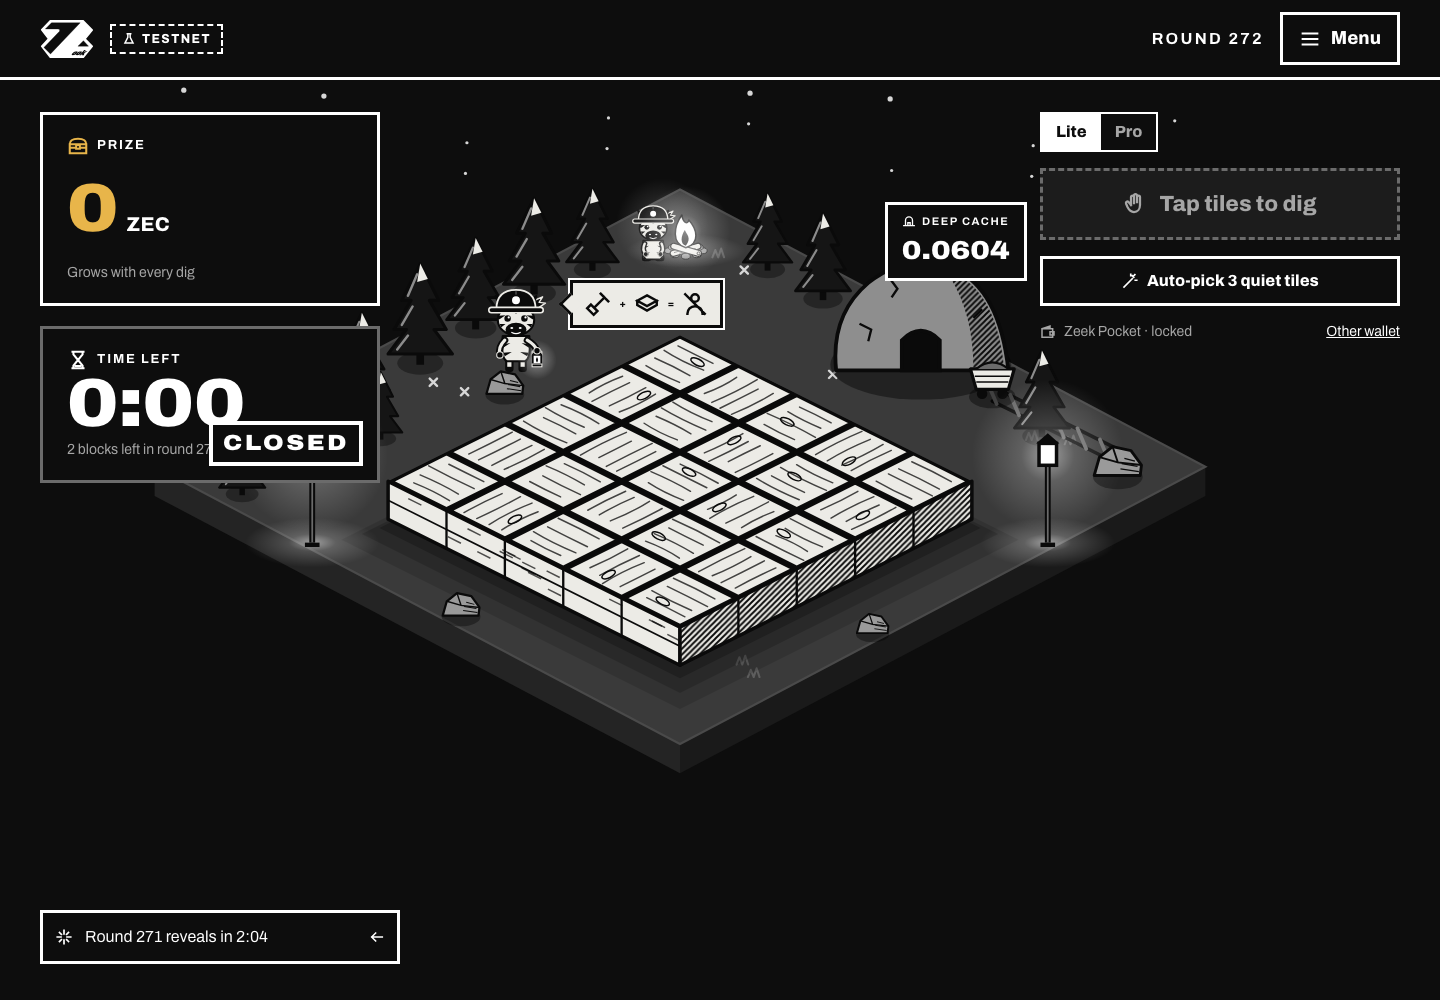
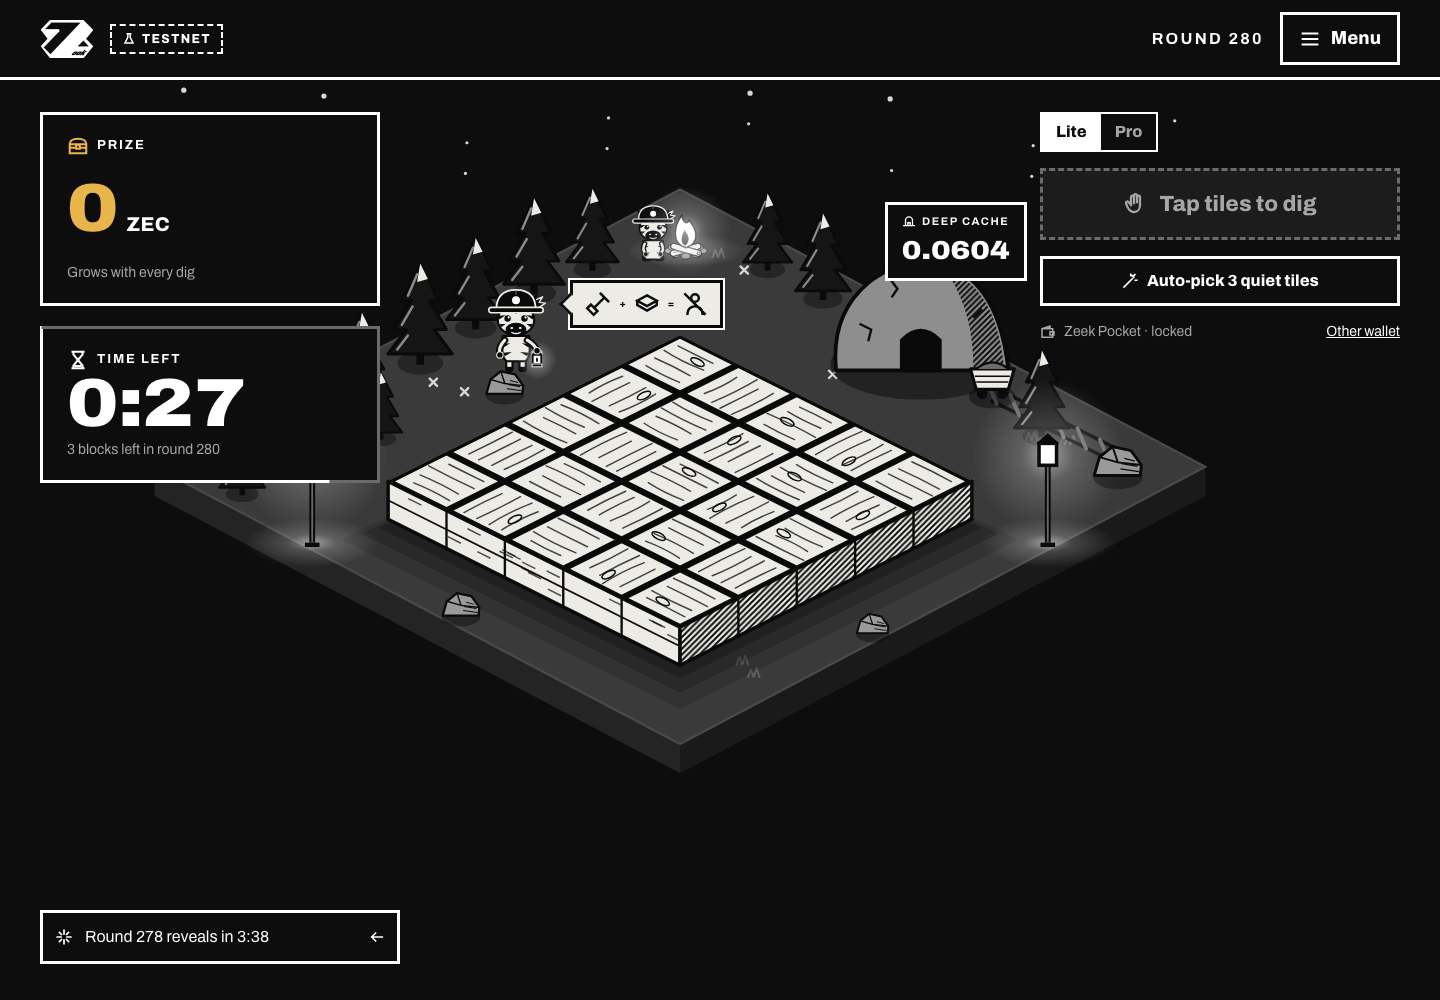
Field: only the fire opens the Campfire chat; Zeb keeps his tricks
The fire is the chat button again on its own hit area (sparks, then the
chat; Enter/Space, focus ring, white light on hover). Zeb sitting by it
answers with a random pictogram again, and five quick taps pop him out of
a hole, as before Phase 8b (e2e tests for both).

Changed region(s): [[0.0938, 0.372, 0.25, 0.496], [0.0938, 0.93, 0.1875, 0.961], [0.4375, 0.186, 0.4688, 0.248]]

diff --git a/apps/web/src/components/field/World.tsx b/apps/web/src/components/field/World.tsx
@@ -7,8 +7,10 @@
  *   tree   sways and drops a few ink leaves      lamp  flickers off and on
  *   cart   rolls along its rails and back        rock  wobbles
  *   mine   press and hold: rumbles, shows the Deep Cache in a bubble
- *   camp   the fire and Zeb by it, one button: sparks fly, Zeb hops, and
- *          the Campfire chat opens (when the screen gives `onCampfire`).
+ *   fire   sparks fly and the Campfire chat opens (when the screen gives
+ *          `onCampfire`; otherwise just the sparks)
+ *   Zeb    a random pictogram; five quick taps: he digs a hole and pops
+ *          out of it.
  * Props sit outside the tile diamond, so they never take a tile pick. They
  * are buttons (Tab reaches them; the field's arrow keys skip them), are
  * disabled during the reveal and while a dig is sealing, and with reduced
@@ -24,11 +26,21 @@ import { VIEWBOX_WORLD } from "../../art/ink";
 import { prefersReducedMotion } from "../../lib/useNow";
 import { PictoBubble } from "../PictoBubble";
 
-export type PropReaction = "sway" | "flicker" | "roll" | "wobble" | "rumble" | "poke" | "zeb";
+export type PropReaction =
+  "sway" | "flicker" | "roll" | "wobble" | "rumble" | "poke" | "zeb" | "egg";
 
 /** Where Zeb and his campfire sit: behind the field, between the pines. */
 const CAMP = { x: 4, y: -58, scale: 0.34 } as const;
 const ZEB_AT = { x: -40, y: -96, scale: 0.36 } as const;
+
+const ZEB_BUBBLES: readonly IconName[][] = [
+  ["shovel", "tile", "chest"],
+  ["eye", "nobody"],
+  ["dice", "sparkle"],
+  ["fire", "chat"],
+  ["hourglass", "sparkle"],
+  ["mine", "coin"],
+];
 
 interface Active {
   reaction: PropReaction;
@@ -151,6 +163,8 @@ function propGroup(prop: PropDef, markup: string, active: Active | undefined): s
 }
 
 function zebGroup(p: string, active: Active | undefined): string {
+  if (active?.reaction === "egg")
+    return `<g class="zk-act zk-act-egg-${active.n % 2}">${zeb("peek", p, false)}</g>`;
   return `<g class="zk-prop ${actClass(active)}">${zeb("campfire", p, false)}</g>`;
 }
 
@@ -307,9 +321,6 @@ export function usePropReactions(onReact?: (r: PropReaction) => void) {
   return { active, fire };
 }
 
-/** The camp's hit area: the fire and Zeb sitting by it. */
-const CAMP_HIT = { cx: -12, cy: -76, r: 32 } as const;
-
 export function PropButtons({
   interactive,
   cacheLabel,
@@ -321,7 +332,7 @@ export function PropButtons({
   cacheLabel: string;
   fire: (id: string, reaction: PropReaction, ms: number) => void;
   active: Record<string, Active>;
-  /** Opens the Campfire chat; without it the camp only reacts. */
+  /** Opens the Campfire chat; without it the fire only throws sparks. */
   onCampfire?: (() => void) | undefined;
 }) {
   const [bubble, setBubble] = useState<{
@@ -329,6 +340,7 @@ export function PropButtons({
     icons: IconName[];
     text: string;
   } | null>(null);
+  const zebTaps = useRef<number[]>([]);
   const hold = useRef<number | null>(null);
   const reduce = prefersReducedMotion();
 
@@ -353,10 +365,27 @@ export function PropButtons({
     });
   };
 
-  const pokeCamp = () => {
+  const pokeFire = () => {
     fire("fire", "poke", 900);
-    fire("zeb", "zeb", 700);
     onCampfire?.();
+  };
+
+  const tapZeb = () => {
+    const now = Date.now();
+    zebTaps.current = [...zebTaps.current.filter((t) => now - t < 2000), now];
+    if (zebTaps.current.length >= 5) {
+      zebTaps.current = [];
+      fire("zeb", "egg", 2400);
+      setBubble({
+        at: { x: ZEB_AT.x + 20, y: ZEB_AT.y - 10 },
+        icons: ["shovel", "sparkle"],
+        text: "Found you!",
+      });
+      return;
+    }
+    fire("zeb", "zeb", 700);
+    const icons = ZEB_BUBBLES[Math.floor(Math.random() * ZEB_BUBBLES.length)] ?? ["sparkle"];
+    setBubble({ at: { x: ZEB_AT.x + 20, y: ZEB_AT.y - 10 }, icons: [...icons], text: "" });
   };
 
   const disabled = !interactive;
@@ -393,14 +422,25 @@ export function PropButtons({
       <button
         type="button"
         className="zk-prop-button zk-camp-button absolute"
-        style={hitBox(CAMP_HIT.cx, CAMP_HIT.cy, CAMP_HIT.r)}
+        style={hitBox(CAMP.x, CAMP.y - 12, 16)}
         aria-label={onCampfire === undefined ? "Poke the campfire" : "Open the Campfire chat"}
         title={onCampfire === undefined ? undefined : "Campfire chat"}
         disabled={disabled}
         data-prop="fire"
         data-testid="campfire-open"
         data-active={active.fire !== undefined}
-        onClick={pokeCamp}
+        onClick={pokeFire}
+      />
+      <button
+        type="button"
+        className="zk-prop-button absolute"
+        style={hitBox(ZEB_AT.x + 20, ZEB_AT.y + 26, 20)}
+        aria-label="Zeb the zebra miner"
+        disabled={disabled}
+        data-prop="zeb"
+        data-testid="zeb"
+        data-active={active.zeb !== undefined}
+        onClick={tapZeb}
       />
       {bubble !== null && (
         <div

diff --git a/apps/web/e2e/features/campfire.spec.ts b/apps/web/e2e/features/campfire.spec.ts
@@ -1,7 +1,8 @@
 /**
- * The camp on the field (the fire and Zeb sitting by it) opens the
- * Campfire chat: by click, and from the keyboard as a button (Enter or
- * Space). The other props keep their own reactions.
+ * The campfire on the field opens the Campfire chat: by click, and from the
+ * keyboard as a button (Enter or Space). Zeb, sitting by it, keeps his own
+ * tricks (a random pictogram; five quick taps pop him out of a hole), and
+ * the other props keep their reactions.
  */
 
 import { expect, test } from "@playwright/test";
@@ -39,5 +40,21 @@ test("the trees still drop their leaves", async ({ page }) => {
   const tree = page.locator('[data-prop][aria-label="Pine tree"]').first();
   await tree.click();
   await expect(tree).toHaveAttribute("data-active", "true");
+  await expect(page).toHaveURL(/\/$/);
+});
+
+test("Zeb answers with a pictogram and stays on the field", async ({ page }) => {
+  const zeb = page.getByTestId("zeb");
+  await expect(zeb).toHaveAccessibleName("Zeb the zebra miner");
+  await zeb.click();
+  // The bubble's anchor is a zero-size point; its picture is what shows.
+  await expect(page.getByTestId("world-props").getByRole("status").getByRole("img")).toBeVisible();
+  await expect(page).toHaveURL(/\/$/);
+});
+
+test("five quick taps on Zeb: he pops out of a hole", async ({ page }) => {
+  const zeb = page.getByTestId("zeb");
+  for (let k = 0; k < 5; k += 1) await zeb.click();
+  await expect(page.getByTestId("world-props").getByRole("status")).toContainText("Found you!");
   await expect(page).toHaveURL(/\/$/);
 });

diff --git a/apps/web/src/styles/index.css b/apps/web/src/styles/index.css
@@ -397,8 +397,8 @@ body {
   outline: 3px dashed var(--color-white);
   outline-offset: 2px;
 }
-/* The camp (fire and Zeb) opens the Campfire chat: firelight on hover,
-   a press that sinks a little. White light: gold is for treasure only. */
+/* The campfire opens the Campfire chat: firelight on hover, a press that
+   sinks a little. White light: gold is for treasure only. */
 .zk-camp-button {
   transition:
     background-color 160ms var(--ease-out),
@@ -554,6 +554,27 @@ body {
   }
   40% {
     transform: translateY(-12px);
+  }
+}
+.zk-act-egg-0,
+.zk-act-egg-1 {
+  animation: zk-egg 2.4s var(--ease-spring);
+}
+@keyframes zk-egg {
+  0% {
+    transform: translateY(60px);
+    opacity: 0;
+  }
+  30% {
+    transform: translateY(60px);
+    opacity: 1;
+  }
+  55% {
+    transform: translateY(-10px);
+  }
+  70%,
+  100% {
+    transform: translateY(0);
   }
 }
 .zk-leaf {

diff --git a/apps/web/src/screens/FieldScreen.tsx b/apps/web/src/screens/FieldScreen.tsx
@@ -46,6 +46,7 @@ function cryptoRandom(): number {
 const REACTION_SOUND: Partial<Record<PropReaction, Parameters<typeof play>[0]>> = {
   rumble: "rumble",
   poke: "crackle",
+  egg: "thunk",
 };
 
 export function FieldScreen() {

diff --git a/docs/web-app.md b/docs/web-app.md
@@ -27,15 +27,15 @@ send `Cross-Origin-Resource-Policy: cross-origin`. The smoke e2e test checks
 
 ## Layout
 
-| Path | What |
-| --- | --- |
-| `src/styles/index.css` | Design tokens in Tailwind 4's `@theme`: colours, type, spacing, borders, shadow, easings. Also the base component classes. |
-| `src/lib/` | Pure logic: money (bigint zatoshis), dig plan and fees, address checks, time, passphrase, depth stages |
-| `src/api/` | Engine client, TanStack Query hooks, one live WebSocket (`LiveProvider`), Pocket provider |
-| `src/machines/` | The explicit state machines (see below) |
-| `src/components/` | Design-system components: `BigStat`, `DigButton`, `AmountPicker`, `Panel`, `Modal`, `StepList`, `BatchProgress`, `QrCard`, `CheckRow`, `MessageRow`, `NetBadge`, `RevealLine`, `MenuRow`, `ResultCard`, `Field`/`Tile` |
-| `src/screens/` | One file per screen, lazily loaded |
-| `e2e/` | Playwright: `smoke.spec.ts`, `live/0N-*.spec.ts`, `screenshots.spec.ts` |
+| Path                   | What                                                                                                                                                                                                                   |
+| ---------------------- | ---------------------------------------------------------------------------------------------------------------------------------------------------------------------------------------------------------------------- |
+| `src/styles/index.css` | Design tokens in Tailwind 4's `@theme`: colours, type, spacing, borders, shadow, easings. Also the base component classes.                                                                                             |
+| `src/lib/`             | Pure logic: money (bigint zatoshis), dig plan and fees, address checks, time, passphrase, depth stages                                                                                                                 |
+| `src/api/`             | Engine client, TanStack Query hooks, one live WebSocket (`LiveProvider`), Pocket provider                                                                                                                              |
+| `src/machines/`        | The explicit state machines (see below)                                                                                                                                                                                |
+| `src/components/`      | Design-system components: `BigStat`, `DigButton`, `AmountPicker`, `Panel`, `Modal`, `StepList`, `BatchProgress`, `QrCard`, `CheckRow`, `MessageRow`, `NetBadge`, `RevealLine`, `MenuRow`, `ResultCard`, `Field`/`Tile` |
+| `src/screens/`         | One file per screen, lazily loaded                                                                                                                                                                                     |
+| `e2e/`                 | Playwright: `smoke.spec.ts`, `live/0N-*.spec.ts`, `screenshots.spec.ts`                                                                                                                                                |
 
 ## State machines
 
@@ -114,13 +114,13 @@ when the Zeek engine is back."
   minutes and paused while hidden; when it answers, the field goes live.
 - **Verify this round here** runs `zeek_verify::offline` in the browser:
 
-  | Check | Without the engine |
-  | --- | --- |
-  | Beacon | rules, BLS signature, drand's own public copy (its public relays allow browsers), the draw |
-  | Beacon round bound by the first block's time | needs the live engine |
-  | Digs, Timing | need the live engine |
-  | Settlement | recomputed in full |
-  | Payout | openings against the settlement; the mined transaction needs the live engine |
+  | Check                                        | Without the engine                                                                         |
+  | -------------------------------------------- | ------------------------------------------------------------------------------------------ |
+  | Beacon                                       | rules, BLS signature, drand's own public copy (its public relays allow browsers), the draw |
+  | Beacon round bound by the first block's time | needs the live engine                                                                      |
+  | Digs, Timing                                 | need the live engine                                                                       |
+  | Settlement                                   | recomputed in full                                                                         |
+  | Payout                                       | openings against the settlement; the mined transaction needs the live engine               |
 
   A part that needs chain data shows "Needs the live engine" and never a
   tick. No public testnet chain source can be read from a browser on this
@@ -206,14 +206,14 @@ The dig panel has a Lite / Pro switch, remembered in this browser.
 The design's art is generated at runtime by `zeek-art.js` (identical in
 all six design files). It is ported to typed modules under `src/art/`:
 
-| Module | Contents |
-| --- | --- |
-| `ink.ts` | palette, iso projection, seeded RNG, defs, boil variants |
-| `field.ts` | slab, tiles, holes, burst, puff, cracks, star |
-| `props.ts` | pines, rocks, lamps, rails and cart, chest, mine stages 1–5 and eruption, Zeb's six poses, campfire |
-| `world.ts` | the prop table |
-| `icons.ts` | the 57 pictograms, verbatim |
-| `logoGeometry.ts` | the Z mark |
+| Module            | Contents                                                                                            |
+| ----------------- | --------------------------------------------------------------------------------------------------- |
+| `ink.ts`          | palette, iso projection, seeded RNG, defs, boil variants                                            |
+| `field.ts`        | slab, tiles, holes, burst, puff, cracks, star                                                       |
+| `props.ts`        | pines, rocks, lamps, rails and cart, chest, mine stages 1–5 and eruption, Zeb's six poses, campfire |
+| `world.ts`        | the prop table                                                                                      |
+| `icons.ts`        | the 57 pictograms, verbatim                                                                         |
+| `logoGeometry.ts` | the Z mark                                                                                          |
 
 React wrappers live in `InkSvg.tsx`, `Characters.tsx` and `Logo.tsx`.
 
@@ -237,12 +237,12 @@ Fixes from the design file:
 
 Every animation touches only transform, opacity or stroke-dashoffset.
 
-| Technique | Used for |
-| --- | --- |
-| CSS keyframes | Loops (flicker, blink, sway, nod, flame frames, sparks, fireflies, stars, hourglass, seeking outline) and one-shots (pin drop, puff with steps(6), tremble, burst, chest, star, eruption, prop reactions) |
-| `stroke-dashoffset` (`pathLength=1`) | Hole rim, cracks, treasure split, seal ring, fuse, ink check and X, ink flight |
-| Framer Motion | Modals, menu, sheet, result card, count-ups (integer zatoshis), pulses, stamps, note unfold, shout spark, bubbles |
-| Line-variant swap | Boiling lines |
+| Technique                            | Used for                                                                                                                                                                                                  |
+| ------------------------------------ | --------------------------------------------------------------------------------------------------------------------------------------------------------------------------------------------------------- |
+| CSS keyframes                        | Loops (flicker, blink, sway, nod, flame frames, sparks, fireflies, stars, hourglass, seeking outline) and one-shots (pin drop, puff with steps(6), tremble, burst, chest, star, eruption, prop reactions) |
+| `stroke-dashoffset` (`pathLength=1`) | Hole rim, cracks, treasure split, seal ring, fuse, ink check and X, ink flight                                                                                                                            |
+| Framer Motion                        | Modals, menu, sheet, result card, count-ups (integer zatoshis), pulses, stamps, note unfold, shout spark, bubbles                                                                                         |
+| Line-variant swap                    | Boiling lines                                                                                                                                                                                             |
 
 Boiling lines use three seeded vertex-jitter variants on stacked SVGs,
 each its own compositor layer, swapped at 9 fps. This replaces the
@@ -250,12 +250,12 @@ design's `feTurbulence` filters, which would re-filter the art every frame.
 
 The reveal is one timeline on the existing reveal machine:
 
-| Stage | Time | What happens |
-| --- | --- | --- |
-| draw | 0–860 ms | dim and star |
-| shake | 860–1700 ms | cracks and tremble |
-| burst | 1700–2600 ms | split, glint, burst |
-| result | from 2600 ms | card and count-up |
+| Stage  | Time         | What happens        |
+| ------ | ------------ | ------------------- |
+| draw   | 0–860 ms     | dim and star        |
+| shake  | 860–1700 ms  | cracks and tremble  |
+| burst  | 1700–2600 ms | split, glint, burst |
+| result | from 2600 ms | card and count-up   |
 
 Under `prefers-reduced-motion`:
 
@@ -273,9 +273,9 @@ The props are buttons over the island, kept outside the tile diamond:
 - **The cart** rolls along its rails.
 - **Rocks** wobble.
 - **The mine:** holding it rumbles and shows the Deep Cache.
-- **The camp** (the fire and Zeb sitting by it) is one button: sparks fly,
-  Zeb hops, and the Campfire chat opens. It takes Enter and Space, shows a
-  focus ring, and glows white on hover.
+- **The campfire** opens the Campfire chat (sparks fly first). It takes
+  Enter and Space, shows a focus ring, and glows white on hover.
+- **Zeb** answers in pictograms; five quick taps make him pop out of a hole.
 
 Tab reaches the props, but the field's arrow keys skip them. They are
 disabled during the reveal and while sealing, and they never touch the
